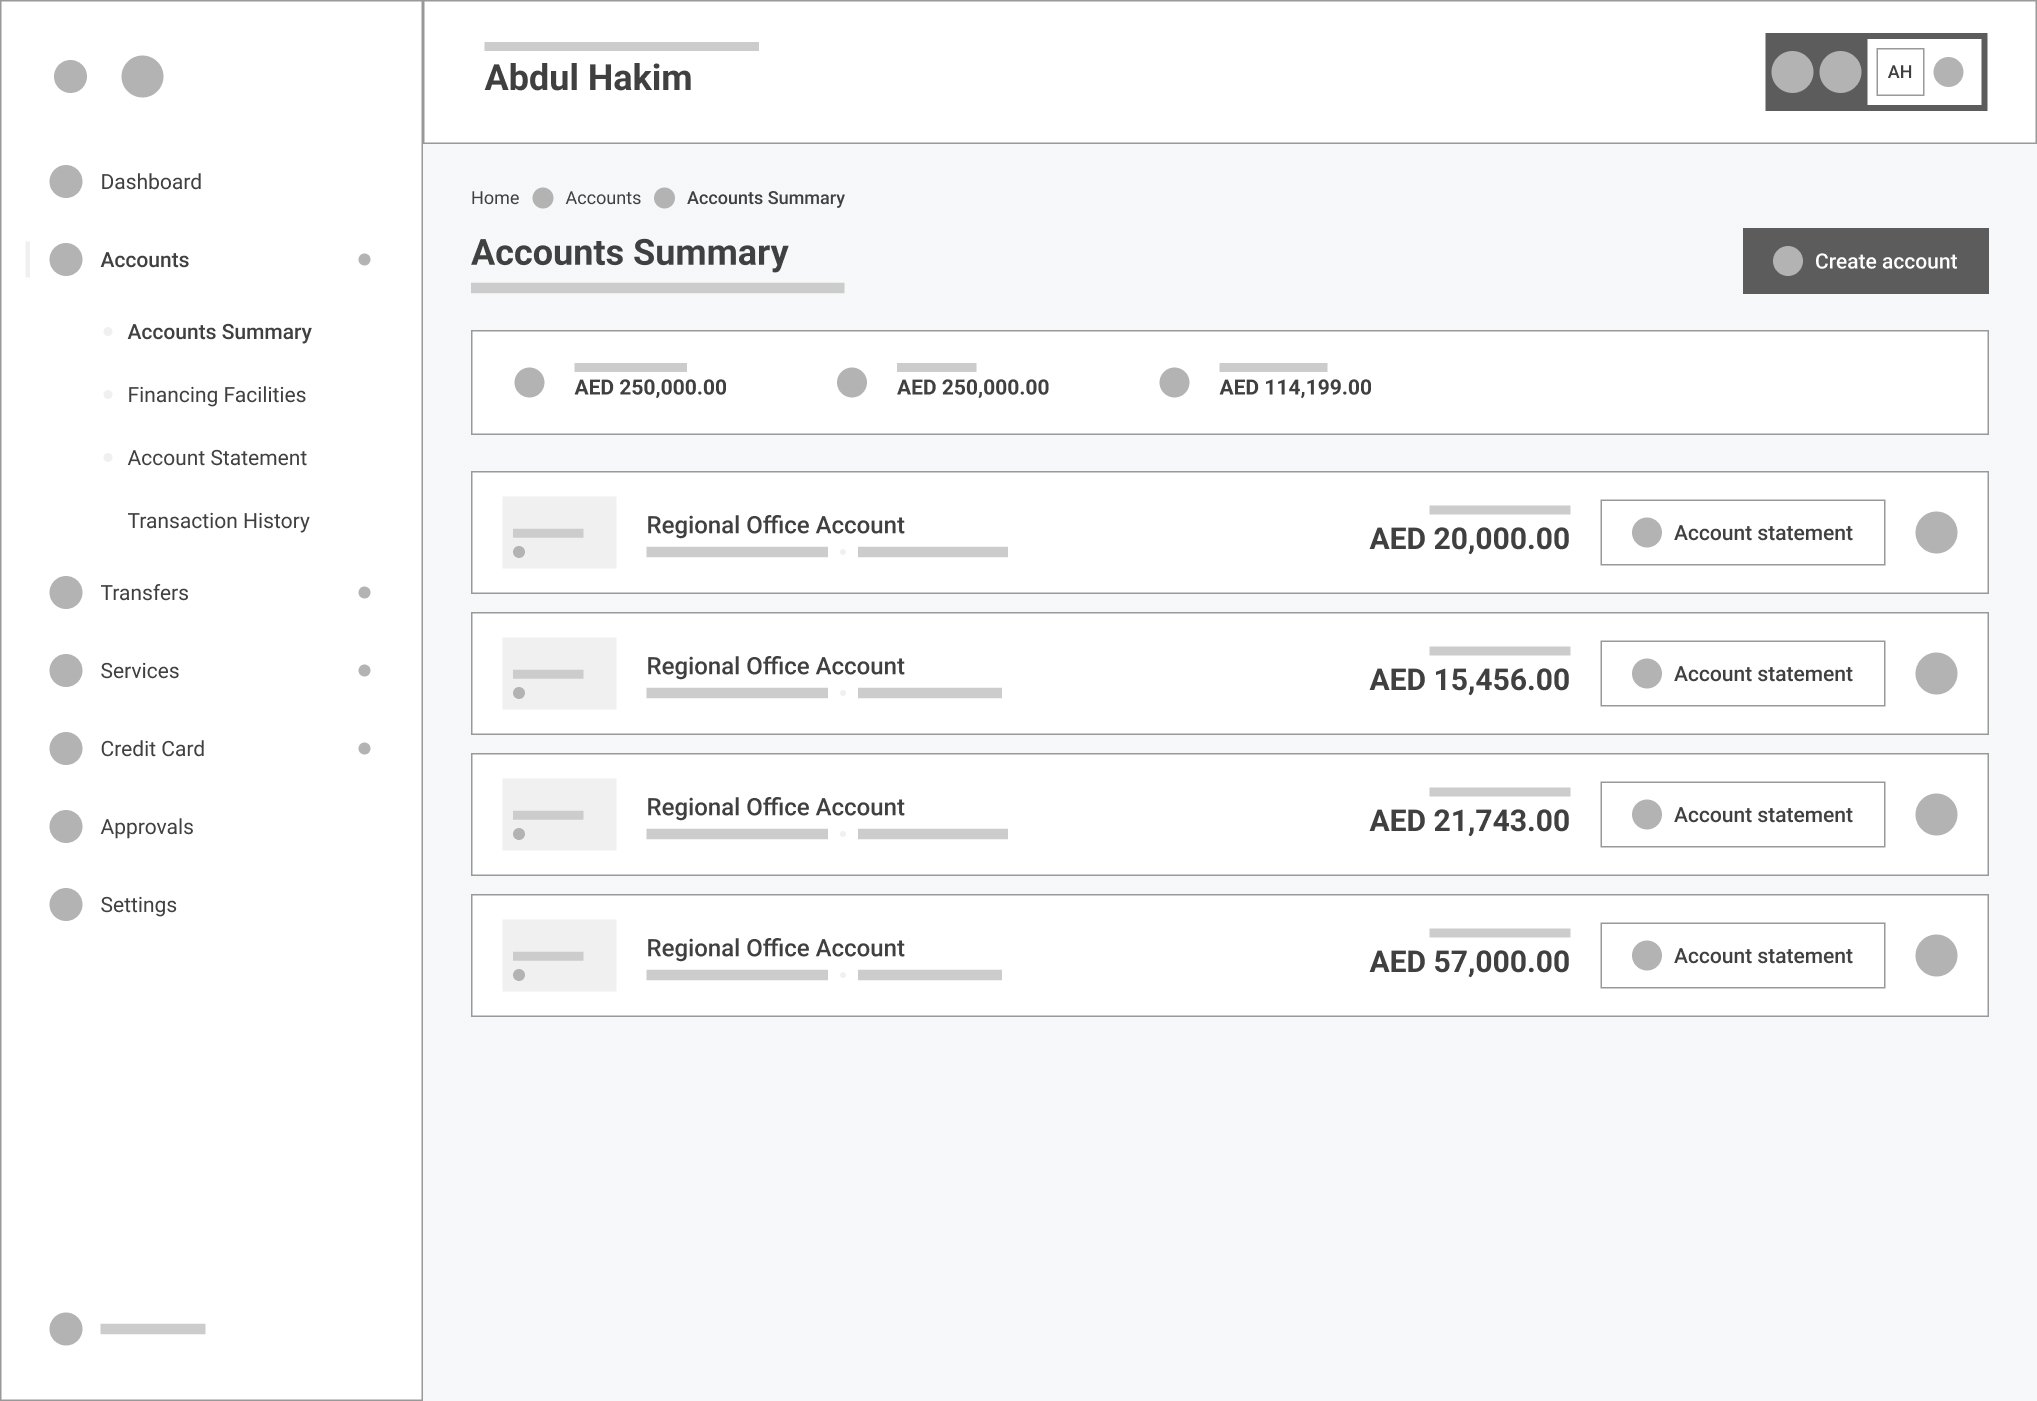
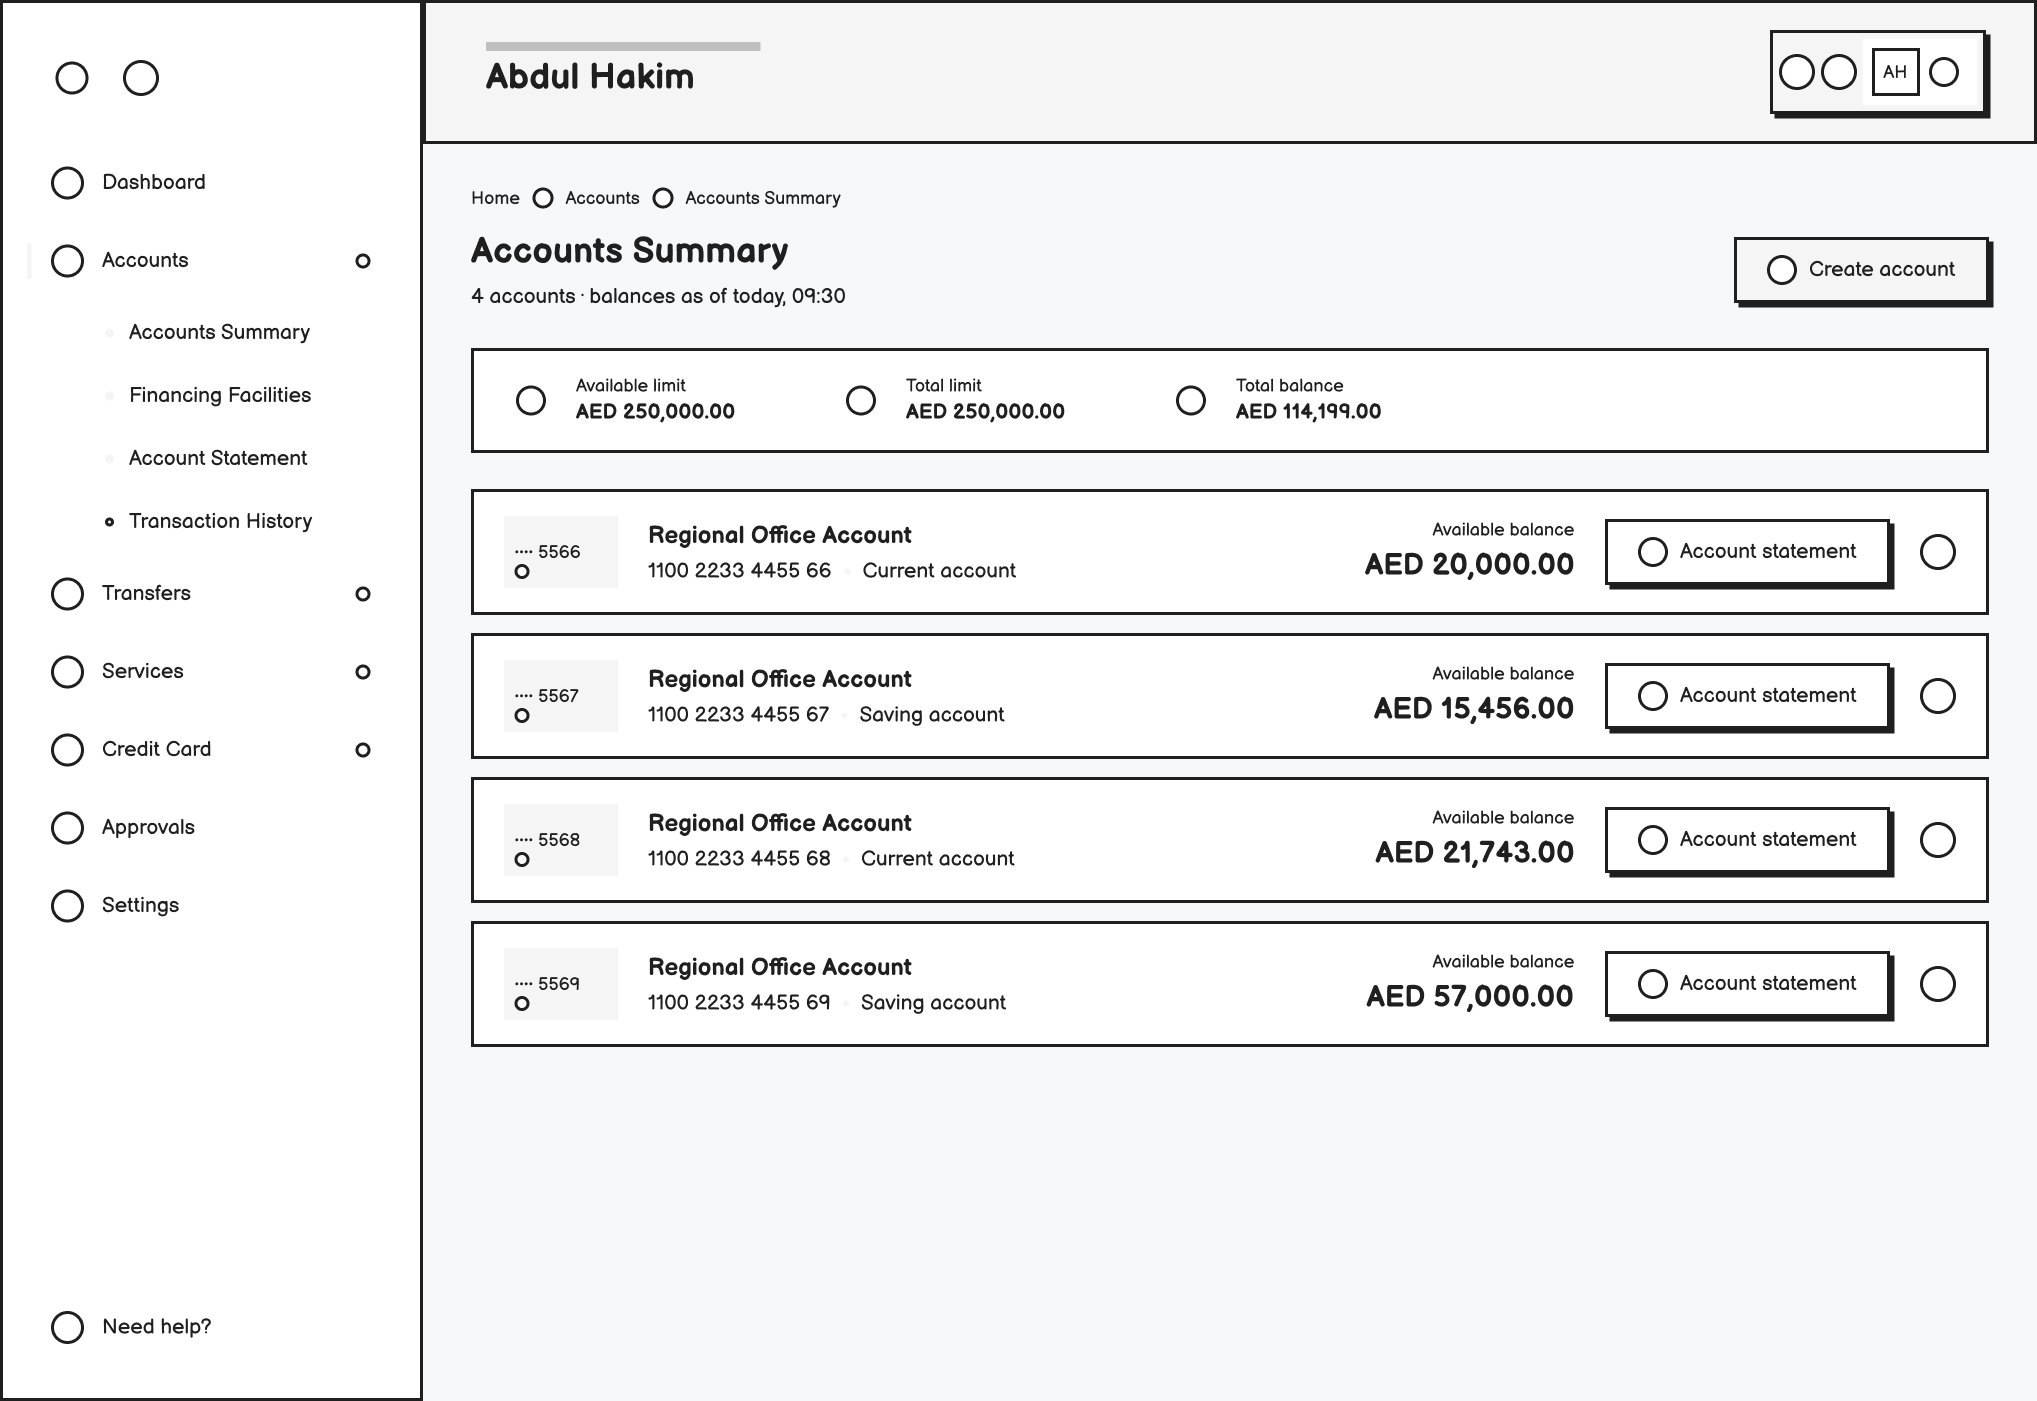
KFH case: sketch style low fi wireframes
Claude-Session: https://claude.ai/code/session_01XfbxjzrLWcbe3h1iWmXJRe

diff --git a/site.471fc7c5.js b/site.471fc7c5.js
@@ -4417,7 +4417,7 @@ document.addEventListener('click',event=>{
     neo: 'We also reviewed digital banking products built around self service.',
     neoFlows: 'Open the image to follow the full journey.',
     comparison: 'Both sets of journeys shown at the same scale.',
-    lofi: 'Boxes, headings and grey lines. Enough to agree where things go and what each screen is for, nothing more. Use the arrows, trackpad, or swipe to move between screens.',
+    lofi: 'Sketch style: boxes, labels and grey lines for text. Enough to agree where things go and what each screen is for, nothing more. Use the arrows, trackpad, or swipe to move between screens.',
     hifi: 'Same screens with real content, spacing and hierarchy settled, still no colour or icons. This is what engineering and the bank reviewed before visual design. Use the arrows, trackpad, or swipe to move between screens.',
     version: 'One shared source for the latest design work.',
     system: 'The foundations and components that helped the team work at scale.',

diff --git a/kfh-media.js b/kfh-media.js
@@ -152,7 +152,7 @@
     neo: 'We also reviewed digital banking products built around self service.',
     neoFlows: 'Open the image to follow the full journey.',
     comparison: 'Both sets of journeys shown at the same scale.',
-    lofi: 'Boxes, headings and grey lines. Enough to agree where things go and what each screen is for, nothing more. Use the arrows, trackpad, or swipe to move between screens.',
+    lofi: 'Sketch style: boxes, labels and grey lines for text. Enough to agree where things go and what each screen is for, nothing more. Use the arrows, trackpad, or swipe to move between screens.',
     hifi: 'Same screens with real content, spacing and hierarchy settled, still no colour or icons. This is what engineering and the bank reviewed before visual design. Use the arrows, trackpad, or swipe to move between screens.',
     version: 'One shared source for the latest design work.',
     system: 'The foundations and components that helped the team work at scale.',

diff --git a/index.html b/index.html
@@ -118,6 +118,6 @@
     tick();setInterval(tick,30000);
   })();
   </script>
-  <script src="site.b6886f0c.js"></script>
+  <script src="site.471fc7c5.js"></script>
 </body>
 </html>
